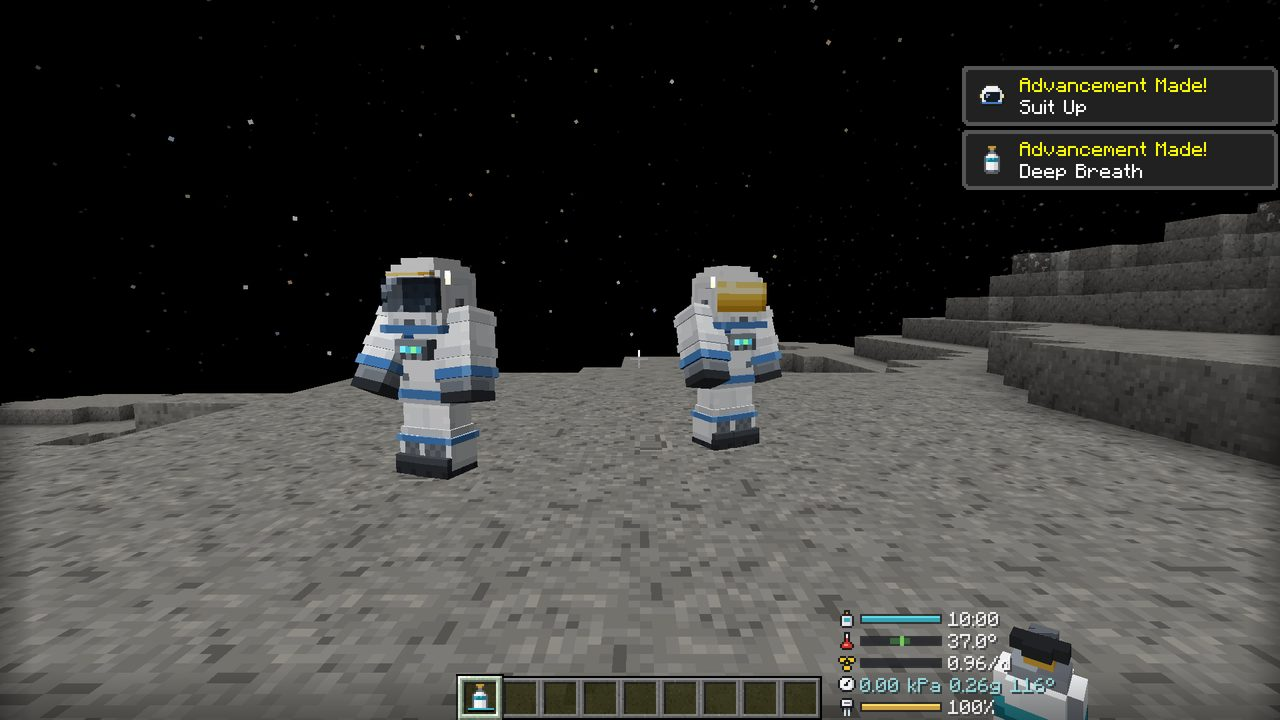
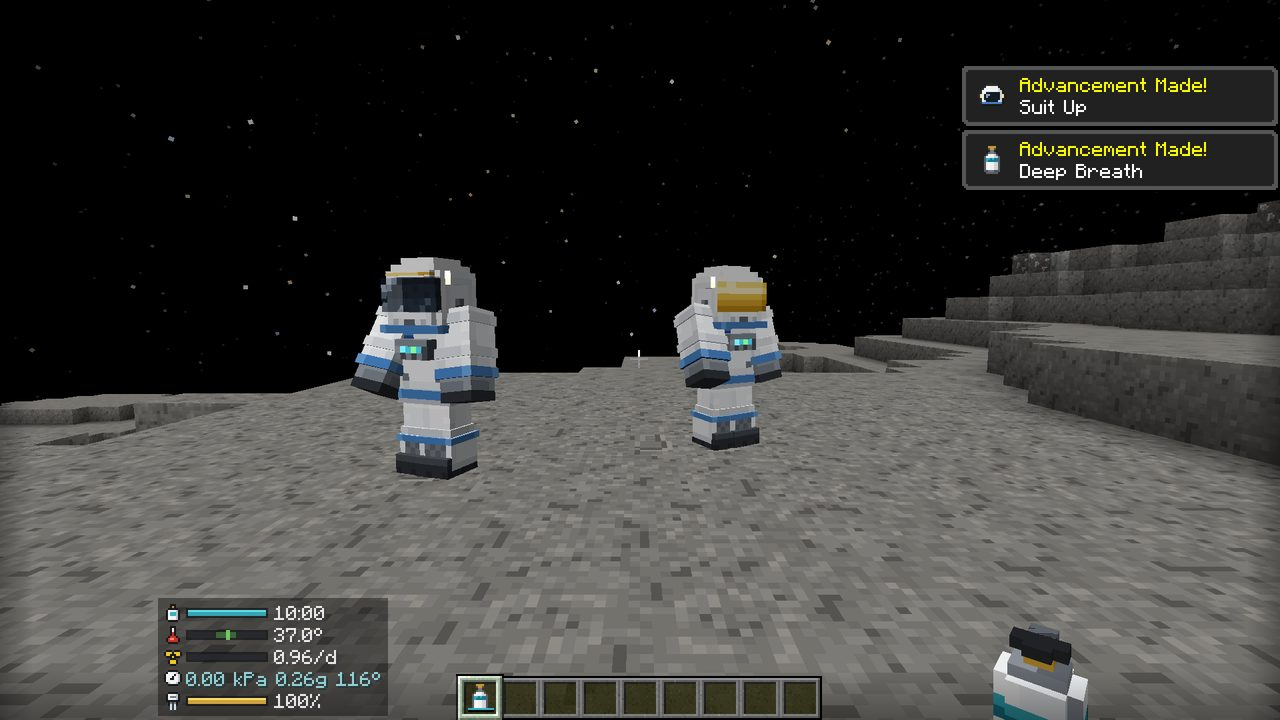
HUD: translucent backing panel, placed on the offhand side of the hotbar
The gauge cluster gets a dark translucent background (like vanilla chat/tooltips) so
values stay readable on bright regolith, and sits beside the hotbar past the offhand
slot, away from the held item; mirrored when the main hand is the left one.

Changed region(s): [[0.125, 0.825, 0.3125, 1.0], [0.6562, 0.8556, 0.8125, 1.0]]

diff --git a/src/main/java/com/pizzaparker07/spacebreaker/client/hud/HelmetHud.java b/src/main/java/com/pizzaparker07/spacebreaker/client/hud/HelmetHud.java
@@ -14,6 +14,7 @@ import net.minecraft.network.chat.Component;
 import net.minecraft.resources.ResourceLocation;
 import net.minecraft.util.Mth;
 import net.minecraft.world.entity.EquipmentSlot;
+import net.minecraft.world.entity.HumanoidArm;
 import net.minecraft.world.entity.player.Player;
 import net.minecraft.world.item.ItemStack;
 import net.neoforged.api.distmarker.Dist;
@@ -28,7 +29,7 @@ import java.util.Locale;
 
 /**
  * Helmet HUD, drawn in the GUI layer so it stays on top of shader packs: a faint visor frame and a
- * compact vanilla-style gauge cluster right of the hotbar (oxygen, body temperature; suit, radiation,
+ * compact vanilla-style gauge cluster beside the hotbar on the offhand side (oxygen, body temperature; suit, radiation,
  * surroundings and Maneuvering Unit gas only when they matter) with one blinking warning above the
  * hotbar. Visible in first person while an EVA helmet is worn; scale and opacity are configurable.
  */
@@ -149,10 +150,15 @@ public final class HelmetHud {
             width = Math.max(width, 11 + (r.fill() >= 0 ? BAR_W + 3 : 0) + font.width(r.value()));
         }
         int height = rows.size() * ROW_H - 2;
-        // anchor: right of the hotbar, bottom-aligned with it; top-left corner if the screen is too narrow
-        int ax = g.guiWidth() / 2 + 91 + 8;
-        int ay = g.guiHeight() - 2 - Math.round(height * scale);
-        if (ax + width * scale > g.guiWidth() - 2) {
+        // anchor: beside the hotbar on the offhand side (past the offhand slot), away from the held item;
+        // mirrored for left-handed play; top-left corner if the screen is too narrow
+        int pad = 3;
+        int pw = Math.round((width + pad * 2) * scale);
+        int ph = Math.round((height + pad * 2) * scale);
+        boolean rightHanded = mc.options.mainHand().get() == HumanoidArm.RIGHT;
+        int ax = rightHanded ? g.guiWidth() / 2 - 91 - 29 - 6 - pw : g.guiWidth() / 2 + 91 + 29 + 6;
+        int ay = g.guiHeight() - 2 - ph;
+        if (ax < 2 || ax + pw > g.guiWidth() - 2) {
             ax = 4;
             ay = 4;
         }
@@ -161,6 +167,9 @@ public final class HelmetHud {
         g.pose().pushPose();
         g.pose().translate(ax, ay, 0);
         g.pose().scale(scale, scale, 1F);
+        // translucent backing like vanilla's chat/tooltip background, for bright terrain
+        g.fill(0, 0, width + pad * 2, height + pad * 2, argb(0x000000, 0.45F * alpha));
+        g.pose().translate(pad, pad, 0);
         int y = 0;
         for (Row r : rows) {
             g.setColor(1F, 1F, 1F, alpha);
